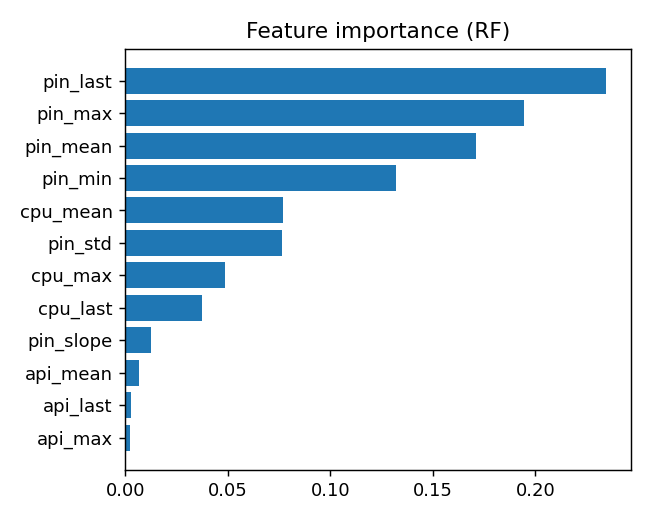
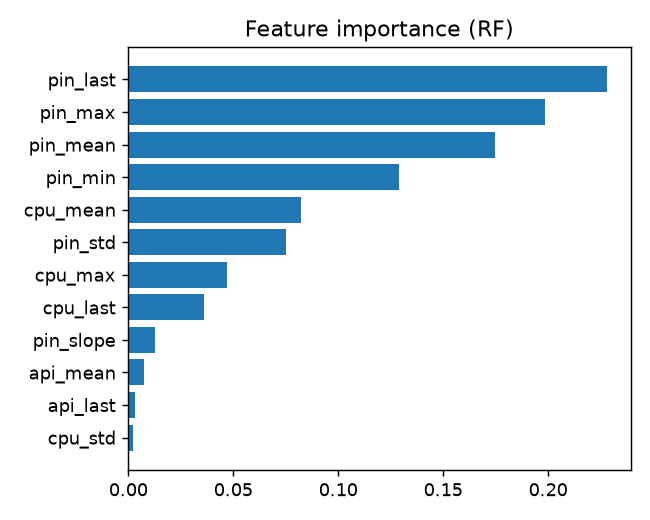
Dùng venv thay cho python -P; cập nhật README/CLAUDE/CHECKLIST
- Thêm hướng dẫn tạo .venv + cài requirements
- Pipeline chạy bằng .venv\Scripts\python.exe (không cần cờ -P)

diff --git a/reports/model_report.md b/reports/model_report.md
@@ -24,7 +24,7 @@ Trên tập test:
 - Confusion [TN FP / FN TP]: [204 0 / 0 236]
 - Precision=1.000  Recall=1.000  F1=1.000  FPR=0.000
 - ROC-AUC=1.000  PR-AUC=1.000
-- Tốc độ suy luận: 0.108 ms/cửa sổ
+- Tốc độ suy luận: 0.106 ms/cửa sổ
 
 ## 4. So sánh (mục 4.5.1)
 
@@ -37,18 +37,18 @@ Trên tập test:
 
 | Đặc trưng | Importance |
 |---|---|
-| pin_last | 0.2347 |
-| pin_max | 0.1944 |
-| pin_mean | 0.1709 |
-| pin_min | 0.1321 |
-| cpu_mean | 0.0770 |
-| pin_std | 0.0764 |
-| cpu_max | 0.0488 |
-| cpu_last | 0.0374 |
-| pin_slope | 0.0128 |
-| api_mean | 0.0066 |
-| api_last | 0.0026 |
-| api_max | 0.0023 |
+| pin_last | 0.2279 |
+| pin_max | 0.1984 |
+| pin_mean | 0.1749 |
+| pin_min | 0.1289 |
+| cpu_mean | 0.0822 |
+| pin_std | 0.0749 |
+| cpu_max | 0.0472 |
+| cpu_last | 0.0360 |
+| pin_slope | 0.0126 |
+| api_mean | 0.0073 |
+| api_last | 0.0032 |
+| cpu_std | 0.0023 |
 
 Đã lưu 3 hình vào reports\figures
 

diff --git a/README.md b/README.md
@@ -18,13 +18,20 @@ reports/data_quality_report.md  báo cáo chất lượng dữ liệu       (sin
 models/  notebooks/   (bước tiếp theo: huấn luyện)
 ```
 
-## Build lại dataset
+## Cài môi trường (venv)
 
 ```powershell
 cd D:\sdn-ai-ml
-pip install -r requirements.txt
-python -P src\build_dataset.py                 # cửa sổ 5 mẫu (10 s)
-python -P src\build_dataset.py --window 5 --window 3
+python -m venv .venv
+.\.venv\Scripts\python.exe -m pip install -r requirements.txt
+```
+
+## Build lại dataset & huấn luyện
+
+```powershell
+.\.venv\Scripts\python.exe src\build_dataset.py                 # cửa sổ 5 mẫu (10 s)
+.\.venv\Scripts\python.exe src\build_dataset.py --window 5 --window 3
+.\.venv\Scripts\python.exe src\train.py                         # huấn luyện + báo cáo model
 ```
 
 ## Thêm một lần chạy mới

diff --git a/CHECKLIST.md b/CHECKLIST.md
@@ -82,6 +82,7 @@ Phải gỡ cái này thì dữ liệu "bảo vệ controller" mới có nghĩa.
 - [x] Tạo `CLAUDE.md` (nhật ký dự án)
 - [x] Tạo `CHECKLIST.md` (file này)
 - [x] Khởi tạo git repo + commit đầu tiên
+- [x] Tạo môi trường ảo `.venv` + cài `requirements.txt` (chạy `train.py` OK trong venv)
 - [ ] Tạo repo GitHub **private** để sao lưu + chia sẻ nhóm *(cần tài khoản của bạn)*
 - [ ] (Khi viết lý thuyết) đối chiếu từng mục với đề cương các chương 2–4
 
